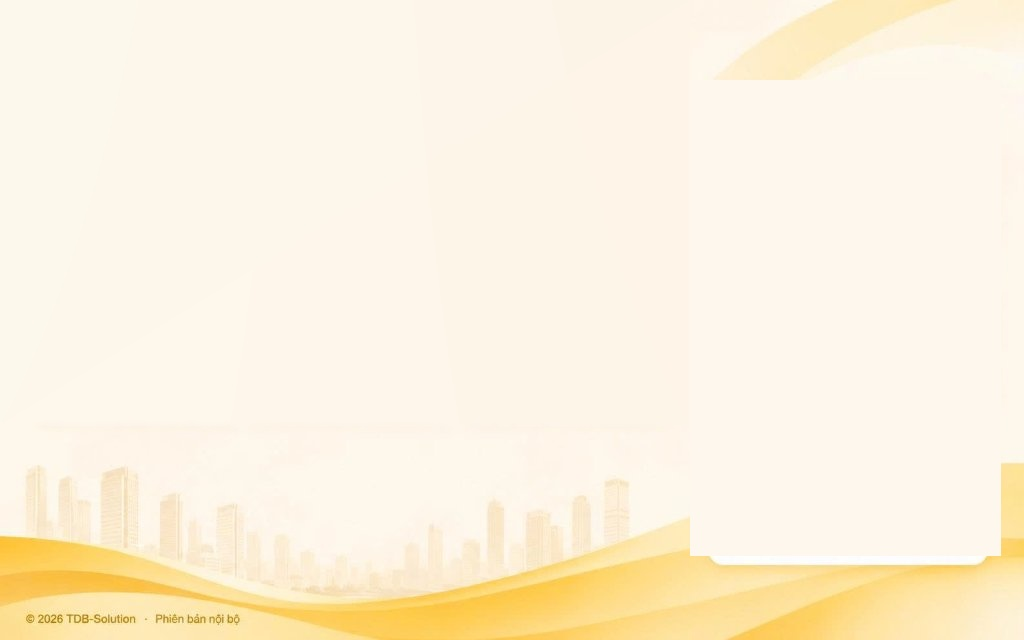
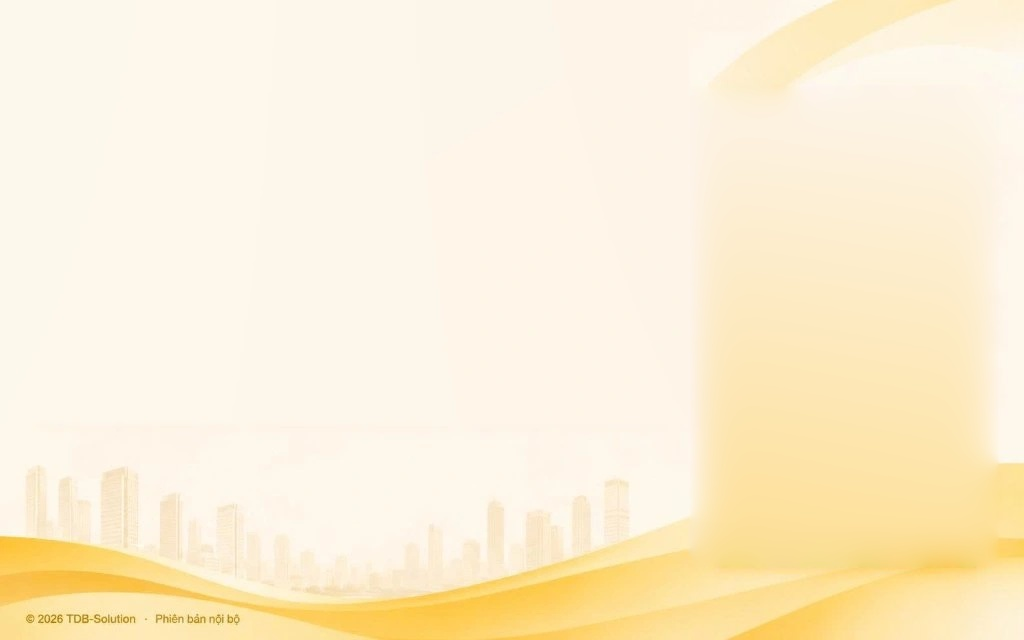
fix(login): remove baked-in ghost box from background image to eliminate frame mismatch

Changed region(s): [[0.6562, 0.3125, 1.0, 0.9062], [0.6875, 0.125, 0.7812, 0.1562]]

diff --git a/custom_addons/tdb_website_custom/static/src/scss/login_custom.scss b/custom_addons/tdb_website_custom/static/src/scss/login_custom.scss
@@ -47,7 +47,7 @@ header, footer, #top, #bottom, #oe_main_menu_navbar, .o_header_standard, .o_foot
     padding: 0 !important;
     display: flex !important;
     background-color: $bg-cream !important;
-    background-image: url('/tdb_website_custom/static/src/img/login_bg.webp?v=20261102_clean_v3') !important;
+    background-image: url('/tdb_website_custom/static/src/img/login_bg.webp?v=20261102_clean_v4') !important;
     background-repeat: no-repeat !important;
     background-position: center center !important;
     background-size: cover !important;
@@ -241,11 +241,11 @@ header, footer, #top, #bottom, #oe_main_menu_navbar, .o_header_standard, .o_foot
 }
 
 .login-card {
-    width: 410px !important;
+    width: 420px !important;
     max-width: 100% !important;
     background: $pure-white !important;
     border-radius: 26px !important;
-    padding: 38px 34px 30px !important;
+    padding: 40px 36px 32px !important;
     box-shadow: 0 20px 50px rgba(210, 160, 50, 0.15), 0 4px 16px rgba(0, 0, 0, 0.04) !important;
     border: 1.5px solid rgba(240, 230, 210, 0.7) !important;
     box-sizing: border-box !important;

diff --git a/apply_theme.py b/apply_theme.py
@@ -516,7 +516,7 @@ html, body {
     padding: 0 !important;
     display: flex !important;
     background-color: #FAF6EE !important;
-    background-image: url('/tdb_website_custom/static/src/img/login_bg.webp?v=20261102_clean_v3') !important;
+    background-image: url('/tdb_website_custom/static/src/img/login_bg.webp?v=20261102_clean_v4') !important;
     background-repeat: no-repeat !important;
     background-position: center center !important;
     background-size: cover !important;
@@ -702,11 +702,11 @@ html, body {
 }
 
 .login-card {
-    width: 410px !important;
+    width: 420px !important;
     max-width: 100% !important;
     background: #FFFFFF !important;
     border-radius: 26px !important;
-    padding: 38px 34px 30px !important;
+    padding: 40px 36px 32px !important;
     box-shadow: 0 20px 50px rgba(210, 160, 50, 0.15), 0 4px 16px rgba(0, 0, 0, 0.04) !important;
     border: 1.5px solid rgba(240, 230, 210, 0.7) !important;
     box-sizing: border-box !important;

diff --git a/custom_addons/tdb_website_custom/apply_theme.py b/custom_addons/tdb_website_custom/apply_theme.py
@@ -516,7 +516,7 @@ html, body {
     padding: 0 !important;
     display: flex !important;
     background-color: #FAF6EE !important;
-    background-image: url('/tdb_website_custom/static/src/img/login_bg.webp?v=20261102_clean_v3') !important;
+    background-image: url('/tdb_website_custom/static/src/img/login_bg.webp?v=20261102_clean_v4') !important;
     background-repeat: no-repeat !important;
     background-position: center center !important;
     background-size: cover !important;
@@ -702,11 +702,11 @@ html, body {
 }
 
 .login-card {
-    width: 410px !important;
+    width: 420px !important;
     max-width: 100% !important;
     background: #FFFFFF !important;
     border-radius: 26px !important;
-    padding: 38px 34px 30px !important;
+    padding: 40px 36px 32px !important;
     box-shadow: 0 20px 50px rgba(210, 160, 50, 0.15), 0 4px 16px rgba(0, 0, 0, 0.04) !important;
     border: 1.5px solid rgba(240, 230, 210, 0.7) !important;
     box-sizing: border-box !important;
